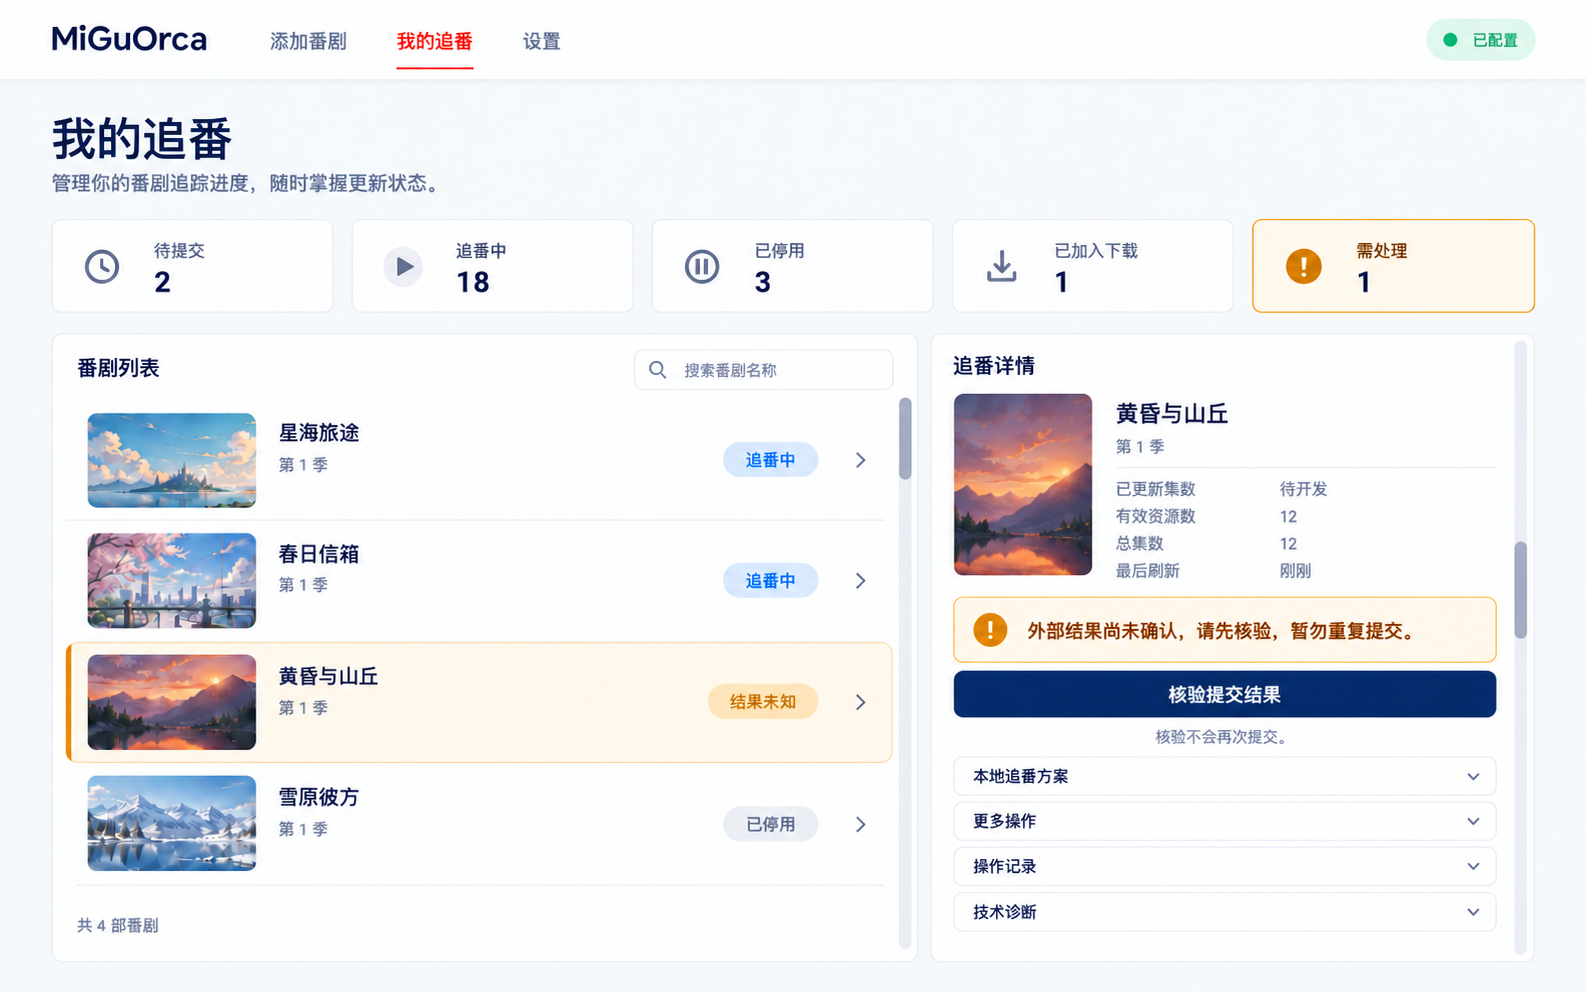
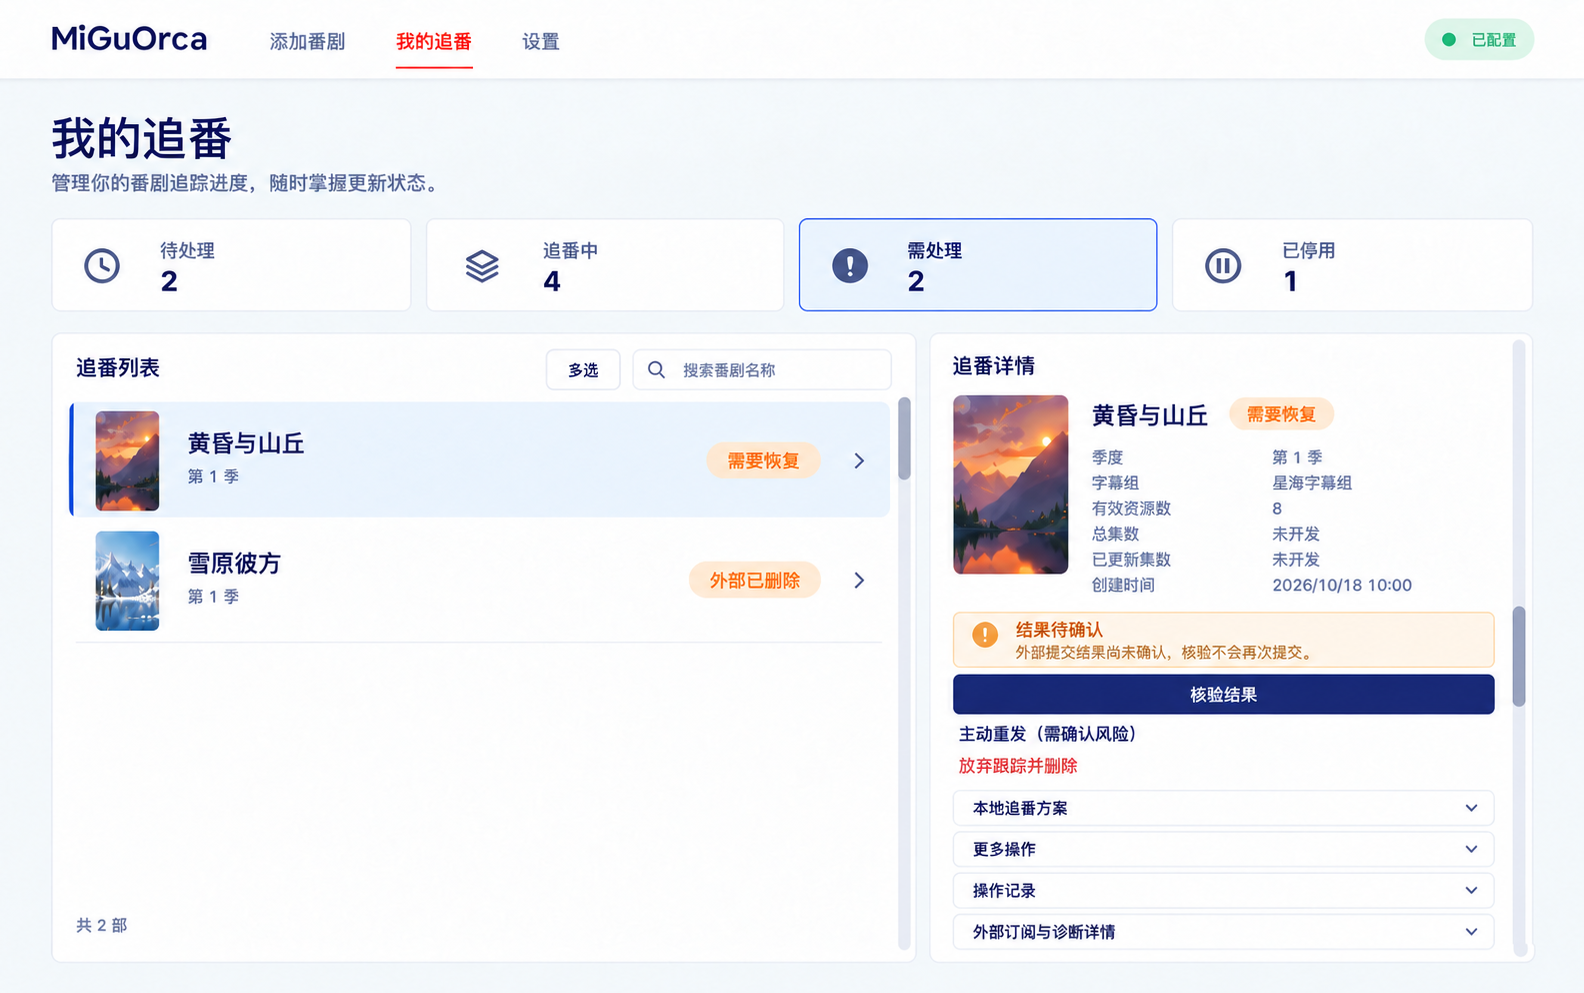
docs(design): 重绘追番状态设计图并归档旧版（#231）

diff --git a/docs/design/assets/frontend-ux/archive/README.md b/docs/design/assets/frontend-ux/archive/README.md
@@ -11,6 +11,7 @@
 | `batch-partial-success-v1.png`、`tracking-revalidation-failed-v1.png` | 批量部分成功与提交前复核失败的上一轮异常图 | 2026-09-23 |
 | `redesign-2026-09-23-baseline/` 两图 | 本轮生成后被滚动条修订取代的初稿 | 2026-09-23 |
 | `redesign-2026-09-25-batch-draft-before/` | 批量草案工作台信息层级修订前的设计图 | 2026-09-25 |
+| `tracking-redesign-2026-10-21-before/` 四图 | 「我的追番」四张状态图按 #218 四卡结论重绘前的设计图 | 2026-10-21 |
 | `2609181532-web-ui-old/` | 旧 Web UI 截图 | 2026-09-18 |
 
 文件名中的 V1/V2 仅表示当时版本；历史 PRD 对这些图的引用只说明当时的验收背景。

diff --git a/docs/design/frontend-ux-redesign-2026-09-23.md b/docs/design/frontend-ux-redesign-2026-09-23.md
@@ -188,3 +188,5 @@
 - **动作面收敛**：退役「重新复核」「自动恢复」「标记为成功／失败」「只删外部」；恢复家族收敛为只读核验
   并自动前置；未决记录可经风险确认放弃跟踪；「主动重发」保留。
 - 设计图修订票见 #231。**出图必须先等本节的文档改动落地**，否则会照旧文档画出五卡的图。
+
+2026-10-21：上表四张追番状态图已按本节结论重绘并替换，被取代的旧图移入 `archive/tracking-redesign-2026-10-21-before/`；同时新增「外部已删除」状态图。
